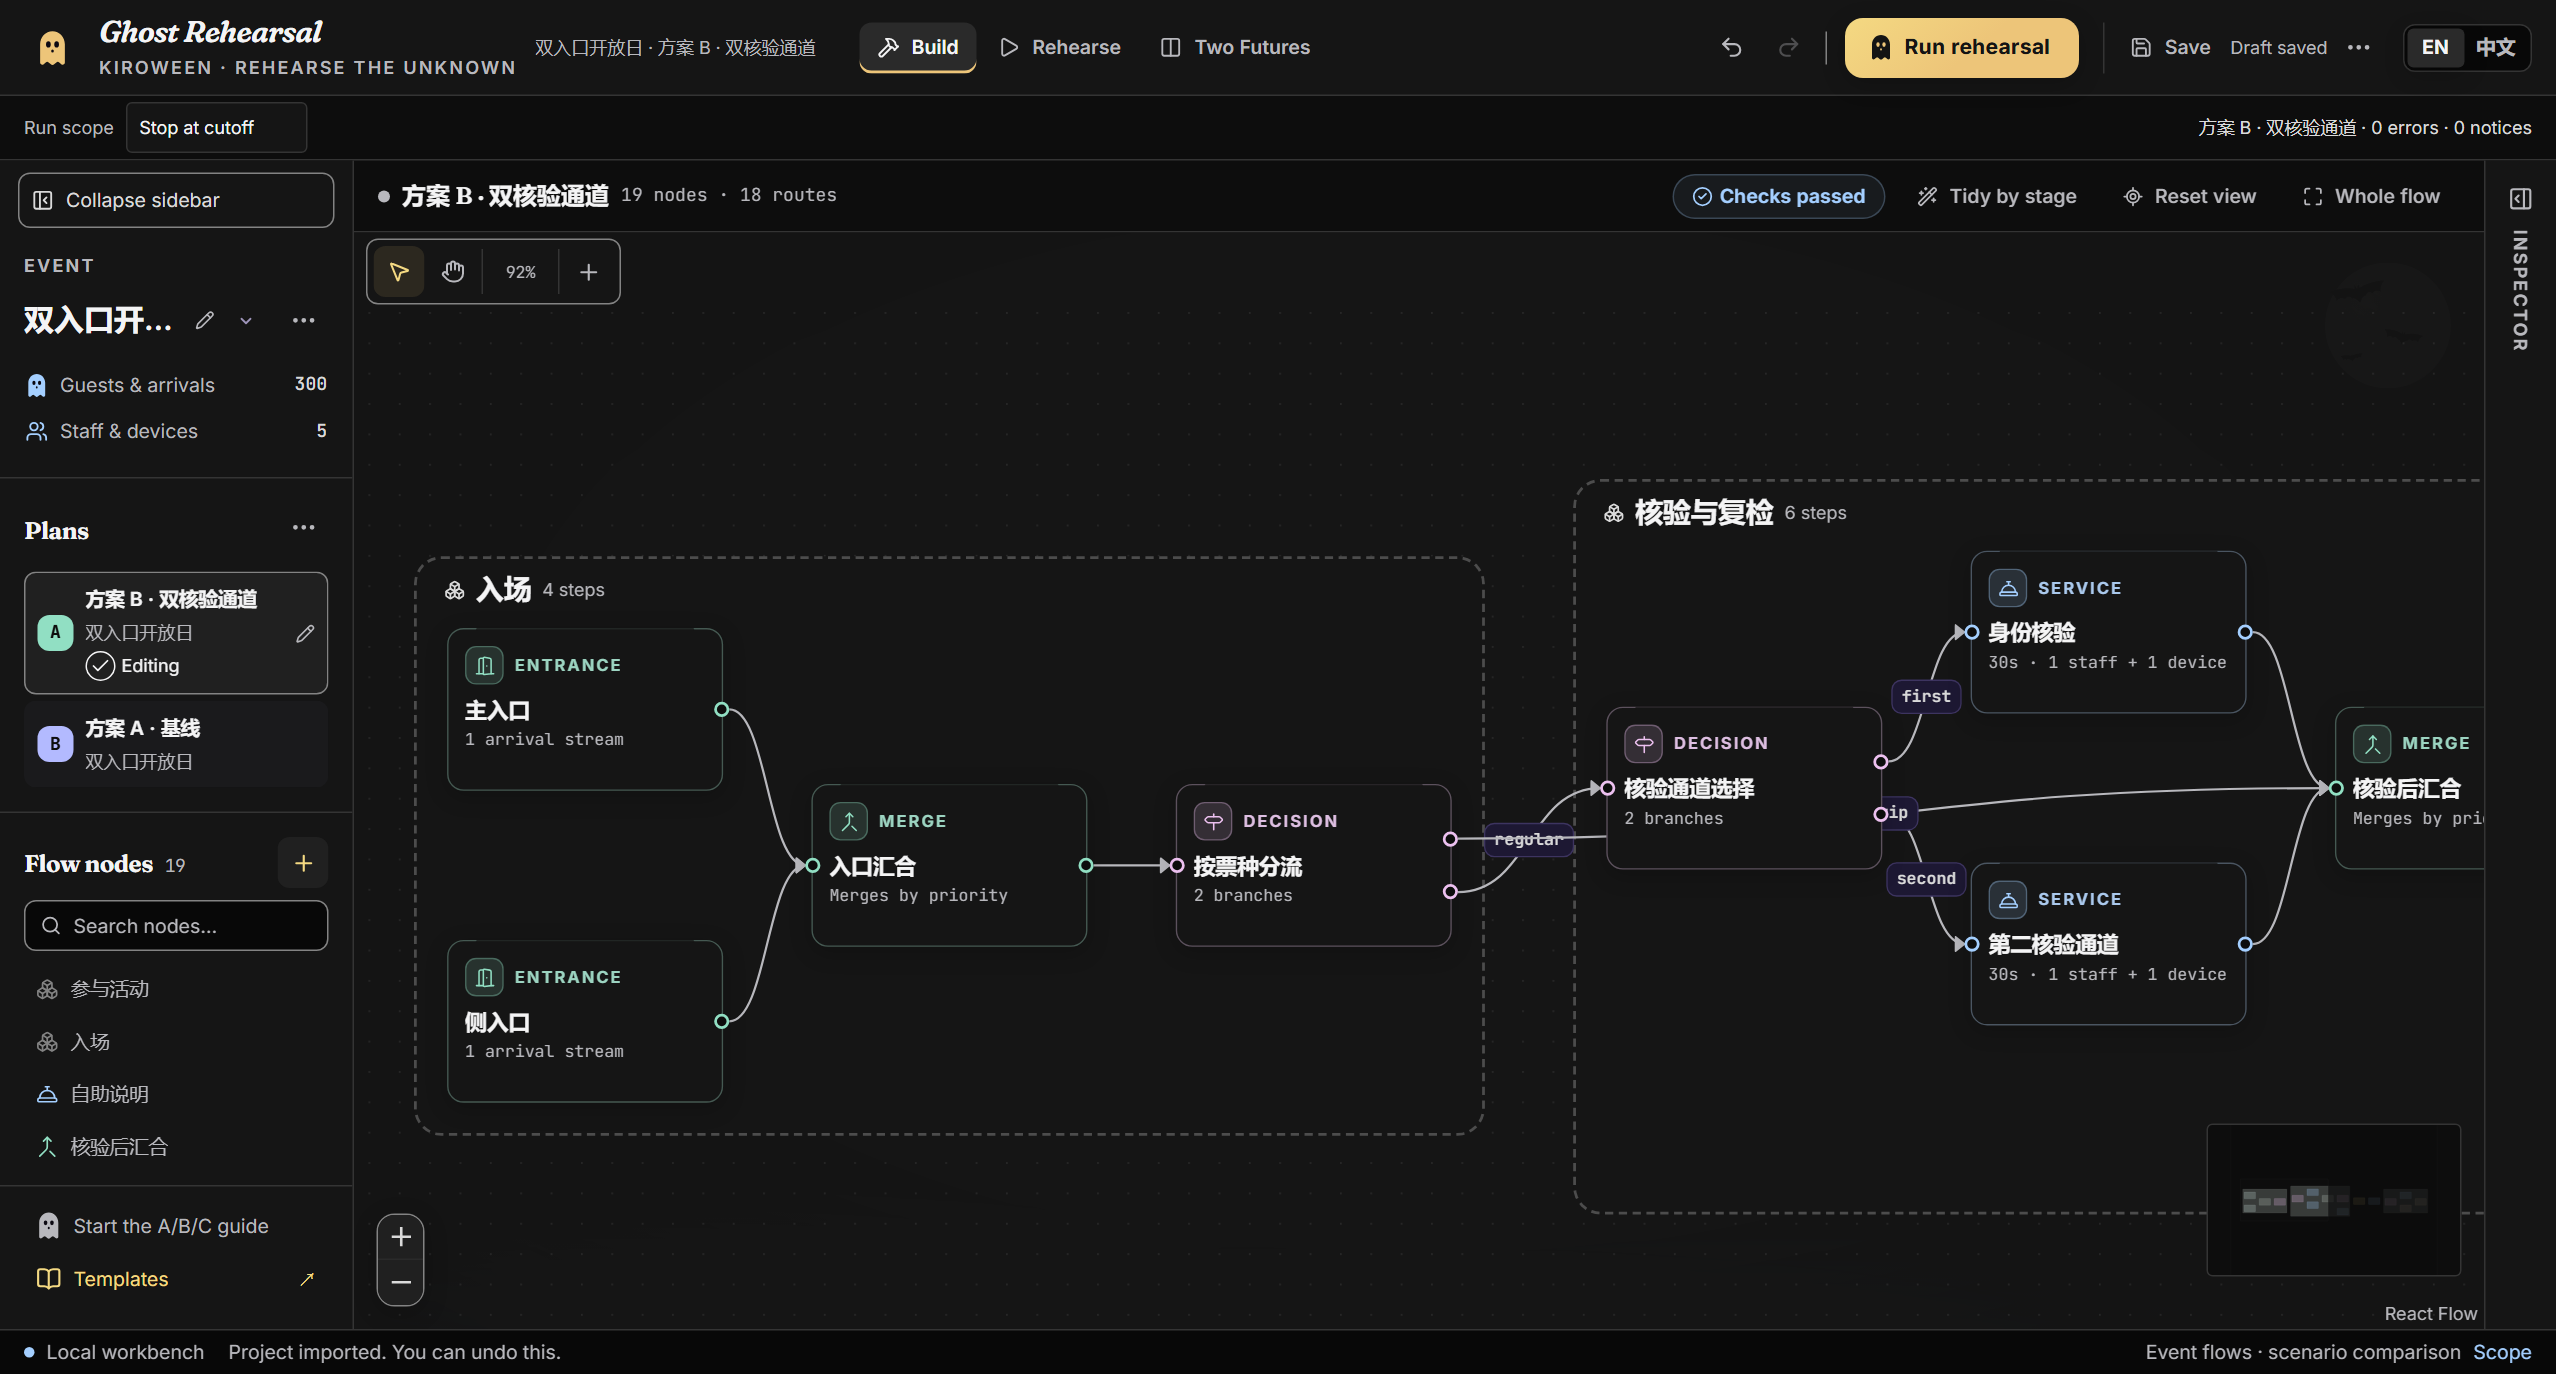
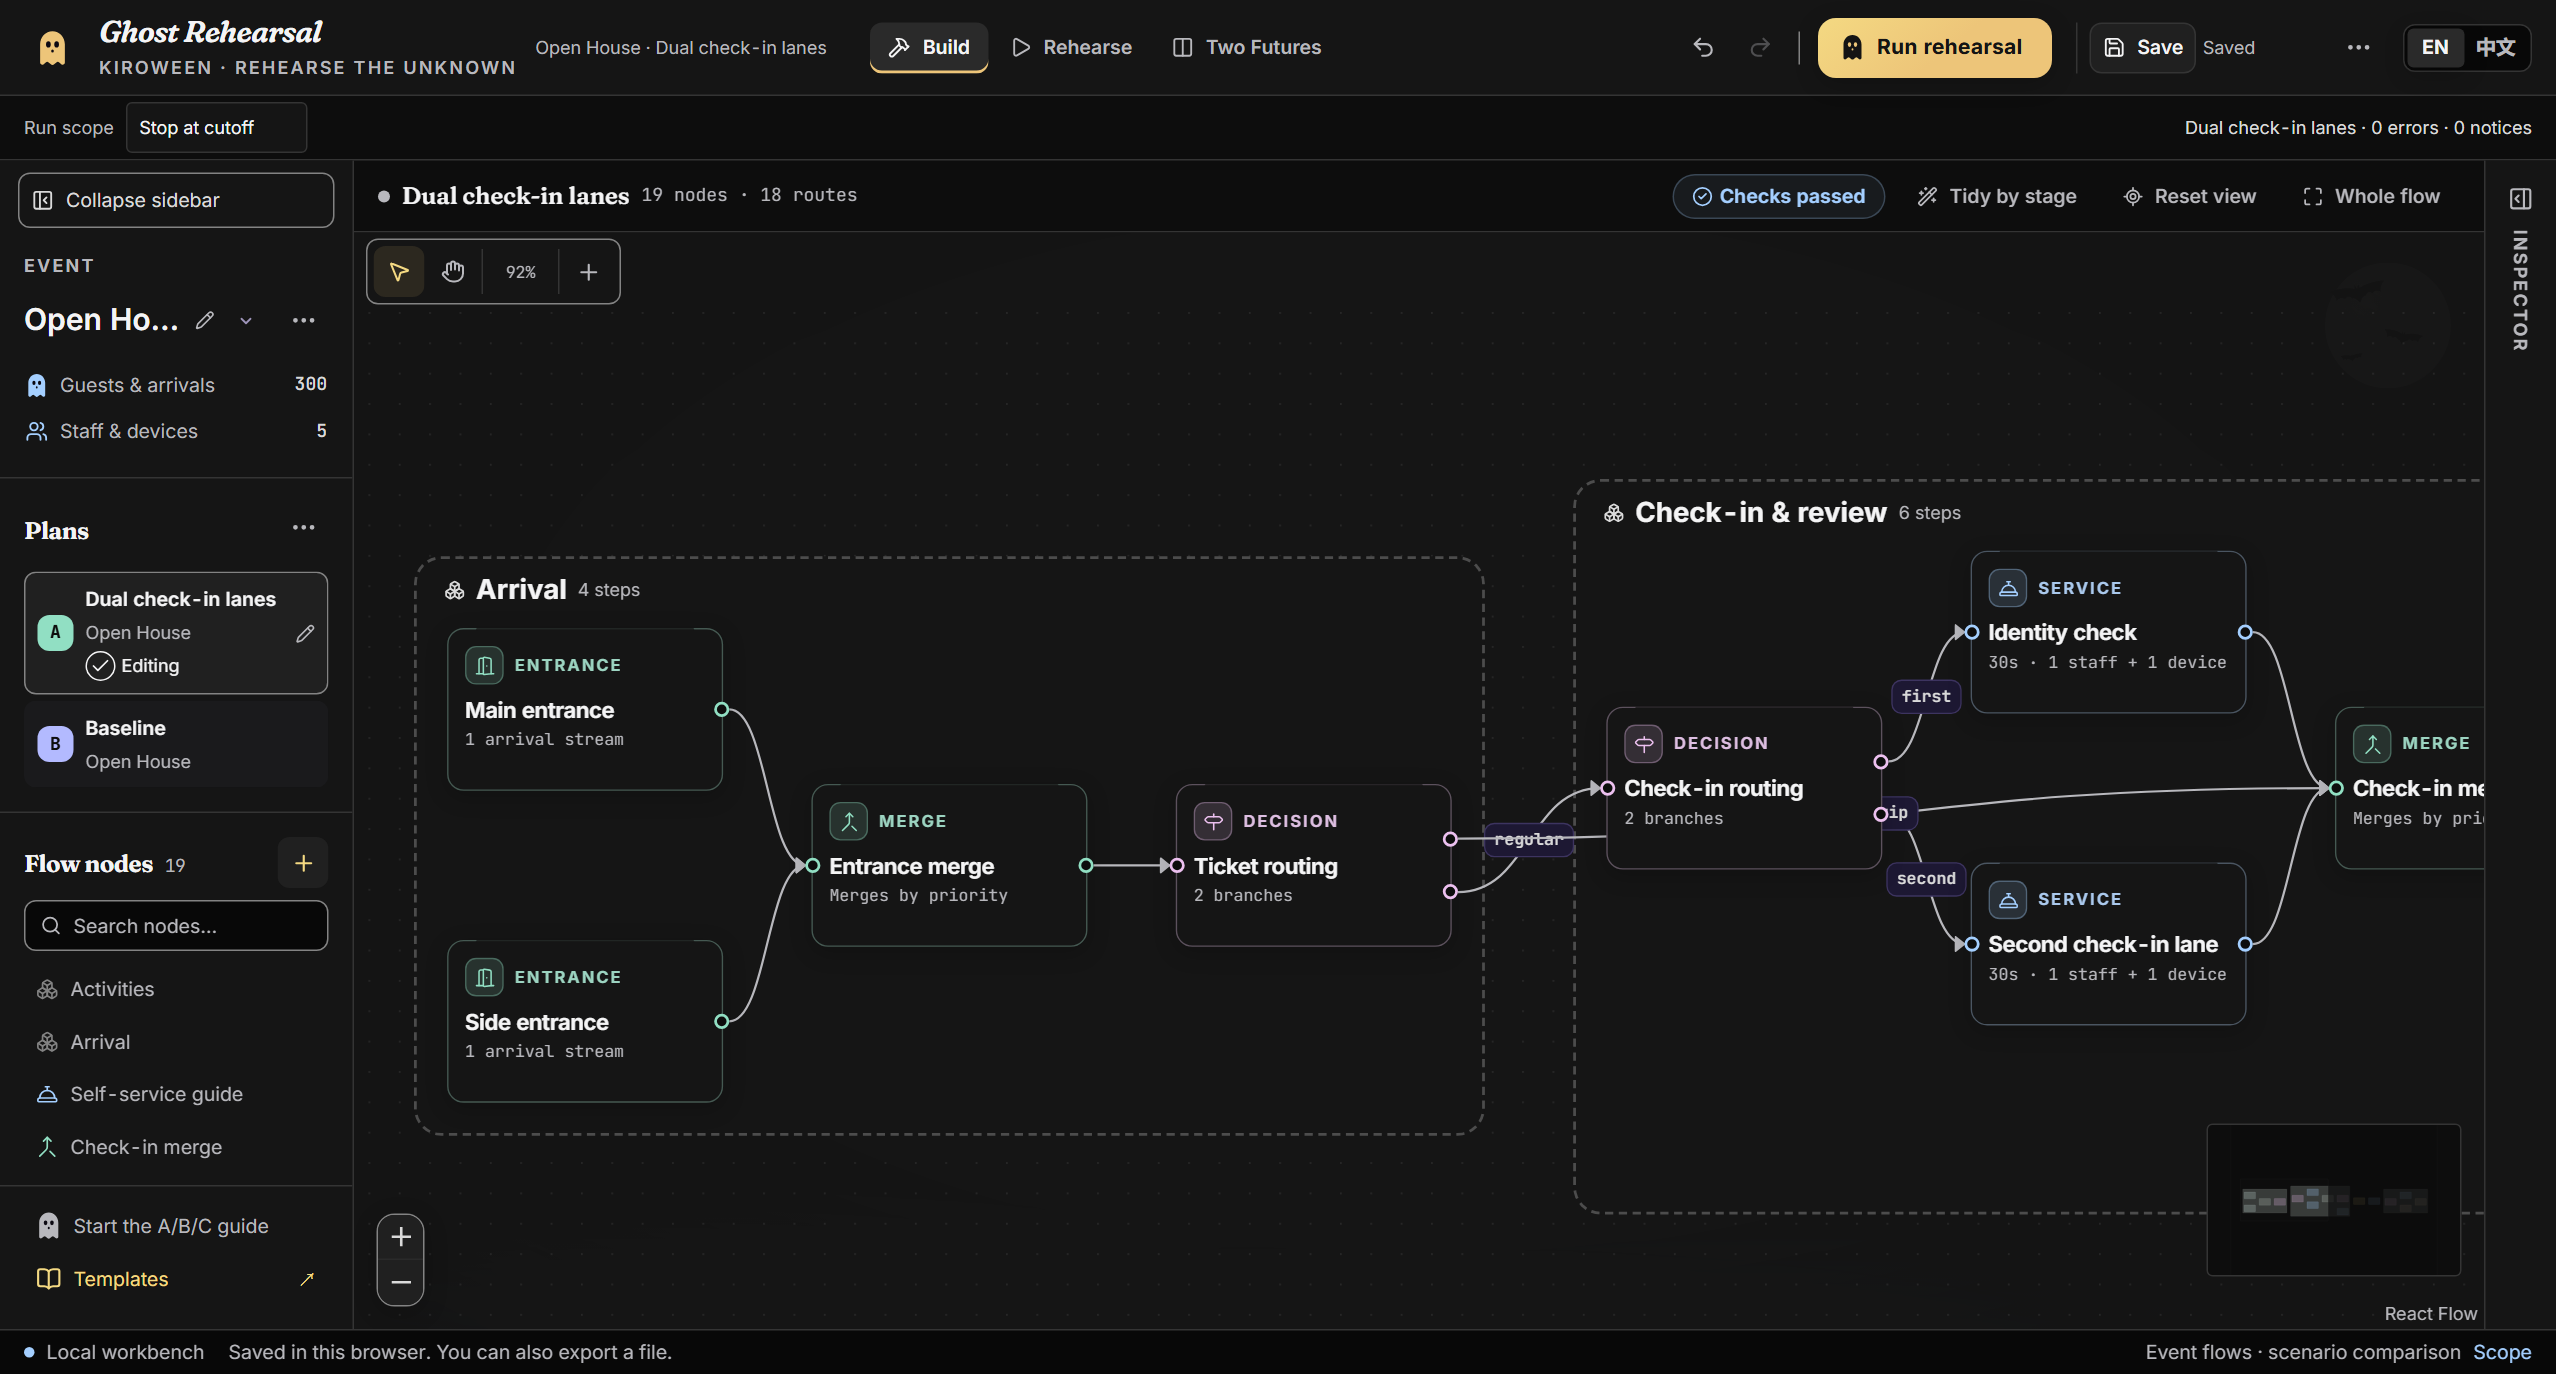
docs: replace README screenshot with English example labels

diff --git a/README.md b/README.md
@@ -6,7 +6,7 @@ See how staffing and flow decisions change people’s waiting before real guests
 
 [Open the live workbench](https://kanzaler123.github.io/ghost-rehearsal/) · [Kiro usage status](KIRO_USAGE.md) · [MIT license](LICENSE)
 
-![The Haunted House example in the Ghost Rehearsal workbench](docs/images/workbench.png)
+![The Open House example in the Ghost Rehearsal workbench, with English labels](docs/images/workbench.png)
 
 ## What you can do
 
